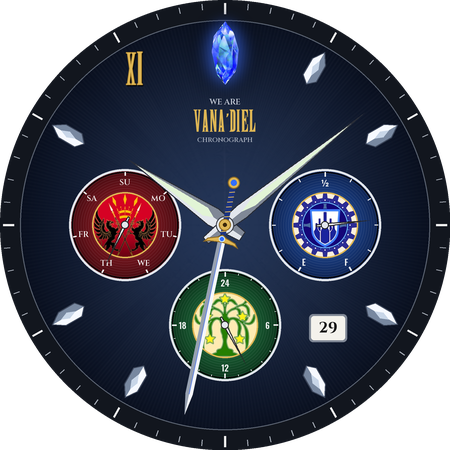
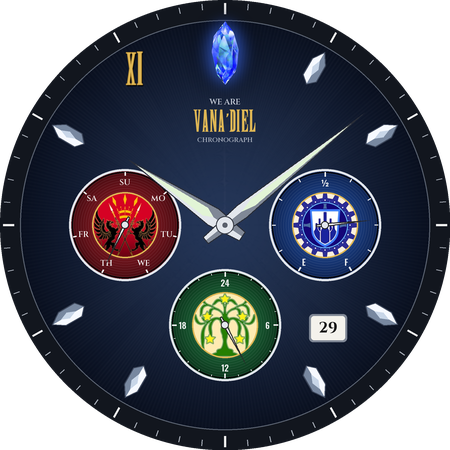
Watch face: remove the seconds hand
The user preferred no seconds hand over the Excalibur sword or a slim
needle; drops the hand art, its generator code and the WFF element.

Claude-Session: https://claude.ai/code/session_01DhcV9kAg7FMXufVfZQP7Ta

Changed region(s): [[0.4044, 0.3733, 0.5289, 0.9333]]

diff --git a/ffxi-watchface/tools/generate_assets.py b/ffxi-watchface/tools/generate_assets.py
@@ -321,38 +321,6 @@ def dauphine(w, tip, tail, cap=0):
     return img
 
 
-def excalibur(w=40, tip=195, tail=50):
-    """Seconds hand styled after Excalibur: blade to the tip, hilt as counterweight."""
-    img, d, px, py = hand_canvas(w, tip, tail)
-    guard_y = py - s(14)
-    blade_w = s(3.6)
-    taper_y = py - s(tip - 22)
-    tip_y = py - s(tip) + SS
-    # blade (two facets + fuller)
-    d.polygon([(px, tip_y), (px - blade_w, taper_y), (px - blade_w, guard_y), (px, guard_y)], fill=(244, 246, 250))
-    d.polygon([(px, tip_y), (px + blade_w, taper_y), (px + blade_w, guard_y), (px, guard_y)], fill=(150, 160, 176))
-    d.line([(px, guard_y - s(4)), (px, taper_y)], fill=(110, 140, 220), width=round(s(1)))
-    # crossguard: swept wings
-    g = [(px - s(18), guard_y - s(7)), (px - s(14), guard_y - s(2)), (px - s(5), guard_y + s(1)),
-         (px, guard_y + s(4)), (px + s(5), guard_y + s(1)), (px + s(14), guard_y - s(2)),
-         (px + s(18), guard_y - s(7)), (px + s(12), guard_y - s(5)), (px, guard_y - s(4)),
-         (px - s(12), guard_y - s(5))]
-    d.polygon(g, fill=GOLD, outline=GOLD_DK, width=SS)
-    d.ellipse([px - s(3), guard_y - s(3.5), px + s(3), guard_y + s(2.5)], fill=(50, 110, 255), outline=(200, 230, 255), width=SS)
-    # grip with gold bands
-    d.rectangle([px - s(2.6), guard_y + s(4), px + s(2.6), py + s(38)], fill=(28, 52, 130))
-    for yy in range(int(guard_y + s(8)), int(py + s(38)), s(5)):
-        d.line([(px - s(2.6), yy), (px + s(2.6), yy - s(1.5))], fill=GOLD, width=SS)
-    # pommel
-    pm = py + s(43)
-    d.ellipse([px - s(6), pm - s(6), px + s(6), pm + s(6)], fill=GOLD, outline=GOLD_DK, width=SS)
-    d.ellipse([px - s(3), pm - s(3), px + s(3), pm + s(3)], fill=(50, 110, 255))
-    # pivot cap
-    d.ellipse([px - s(6), py - s(6), px + s(6), py + s(6)], fill=GOLD, outline=GOLD_DK, width=SS)
-    d.ellipse([px - s(2), py - s(2), px + s(2), py + s(2)], fill=(60, 40, 10))
-    return img
-
-
 def sub_hand(w=10, tip=46, tail=10):
     img, d, px, py = hand_canvas(w, tip, tail)
     d.polygon([(px, py - s(tip) + SS), (px - s(1.8), py), (px - s(1.2), py + s(tail) - SS),
@@ -365,7 +333,6 @@ HANDS = {
     # name: (builder, width, tip, tail)
     'hand_hour': (lambda: dauphine(22, 118, 22), 22, 118, 22),
     'hand_minute': (lambda: dauphine(18, 180, 26, cap=9), 18, 180, 26),
-    'hand_second': (excalibur, 40, 195, 50),
     'hand_sub': (sub_hand, 10, 46, 10),
 }
 
@@ -389,8 +356,6 @@ def preview(dial_hi, hands_hi, hh=10, mm=8, ss=32, dow=5, day=29, batt=78, ambie
         text_c(d, (s(DATE_POS[0]), s(DATE_POS[1])), str(day), font(FONT_SERIF, 15), (20, 20, 20))
     place(img, hands_hi['hand_hour'], 22, 118, 225, 225, (hh % 12 + mm / 60) * 30)
     place(img, hands_hi['hand_minute'], 18, 180, 225, 225, mm * 6 + ss / 10)
-    if not ambient:
-        place(img, hands_hi['hand_second'], 40, 195, 225, 225, ss * 6)
     return finish(img)
 
 

diff --git a/ffxi-watchface/README.md b/ffxi-watchface/README.md
@@ -15,11 +15,10 @@ A Pixel Watch / Wear OS watch face inspired by the Seiko × FINAL FANTASY XI
 | Blue crystal index at 12 | Large faceted blue crystal with glow |
 | "XI" at 11 | Gold serif **XI** |
 | Crystal-shaped indices | Faceted silver crystals at 1, 2, 4, 5, 7, 8, 10 |
-| Excalibur chronograph seconds hand | Sweeping Excalibur seconds hand (winged gold guard, blue gem, hilt as counterweight) |
 | Three sub-dials styled on the three nations' banners (crest medallion in the centre) | **San d'Oria** (red, 9 o'clock): day of week<br>**Bastok** (blue, 3 o'clock): battery E→F<br>**Windurst** (green, 6 o'clock): 24-hour hand |
 | Date window | Live date at 4:30 |
 
-Always-on mode switches to an outline-only dial and hides the seconds hand to save power.
+There's no seconds hand, by choice. Always-on mode switches to a dimmed, outline-only dial.
 
 ## Install from your phone (no computer)
 
